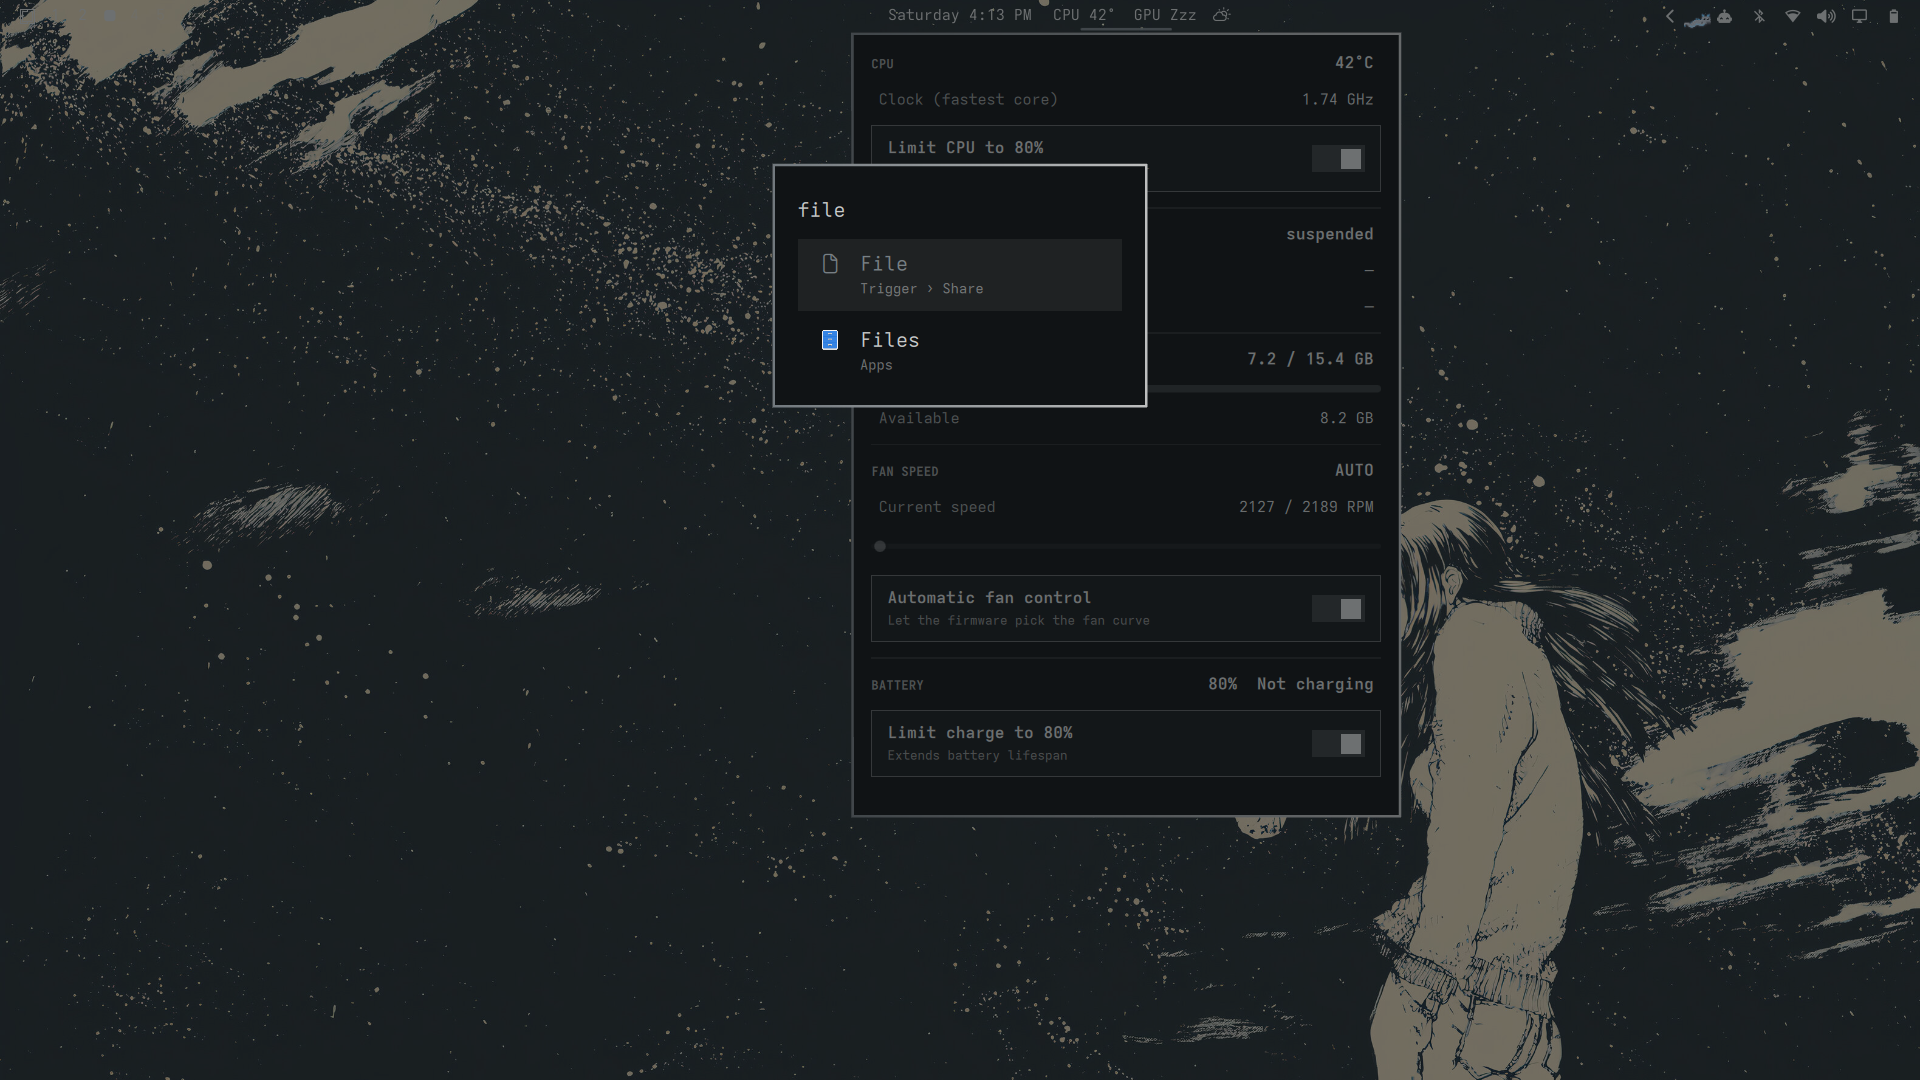
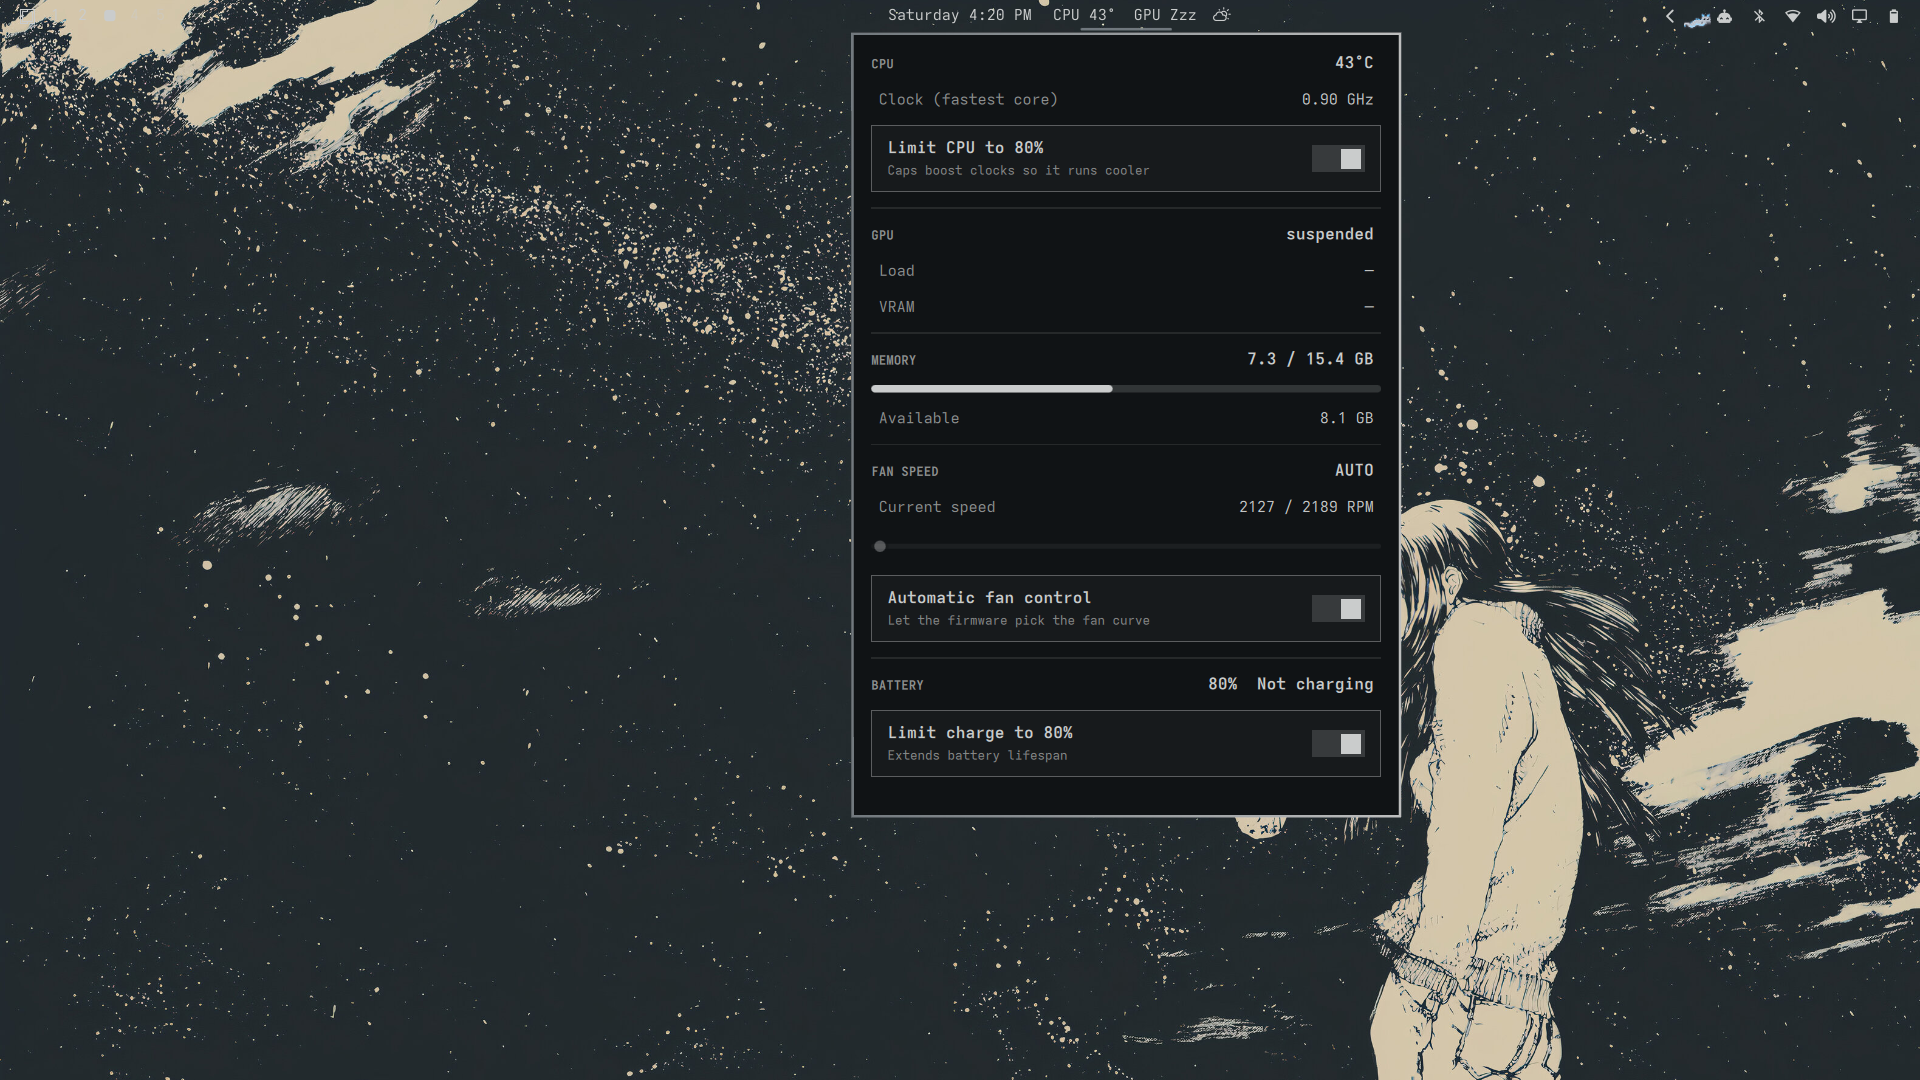
Add MIT license and updated panel screenshot

diff --git a/README.md b/README.md
@@ -72,3 +72,8 @@ Undo: `sudo systemctl disable --now predator-sense-perms && sudo rm /etc/systemd
 | `Panel.qml` | Bar button and dropdown |
 | `stats.sh` | One-shot JSON telemetry, read-only |
 | `install-perms.sh` | One-time permissions service (run with sudo) |
+| `LICENSE` | MIT |
+
+## License
+
+[MIT](LICENSE)
